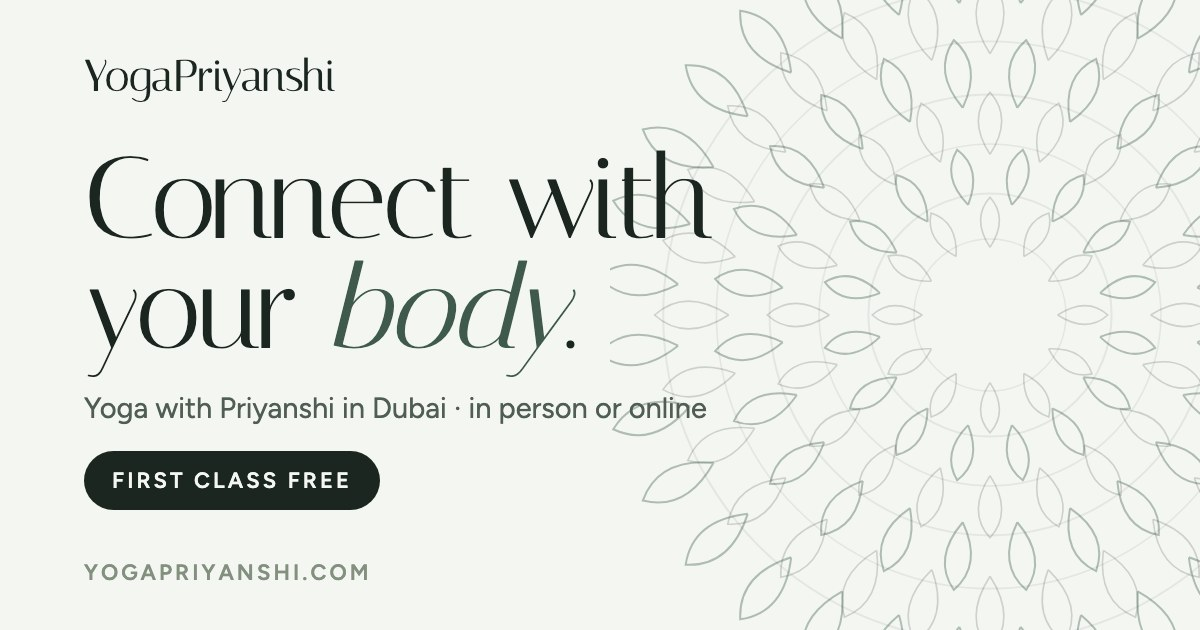
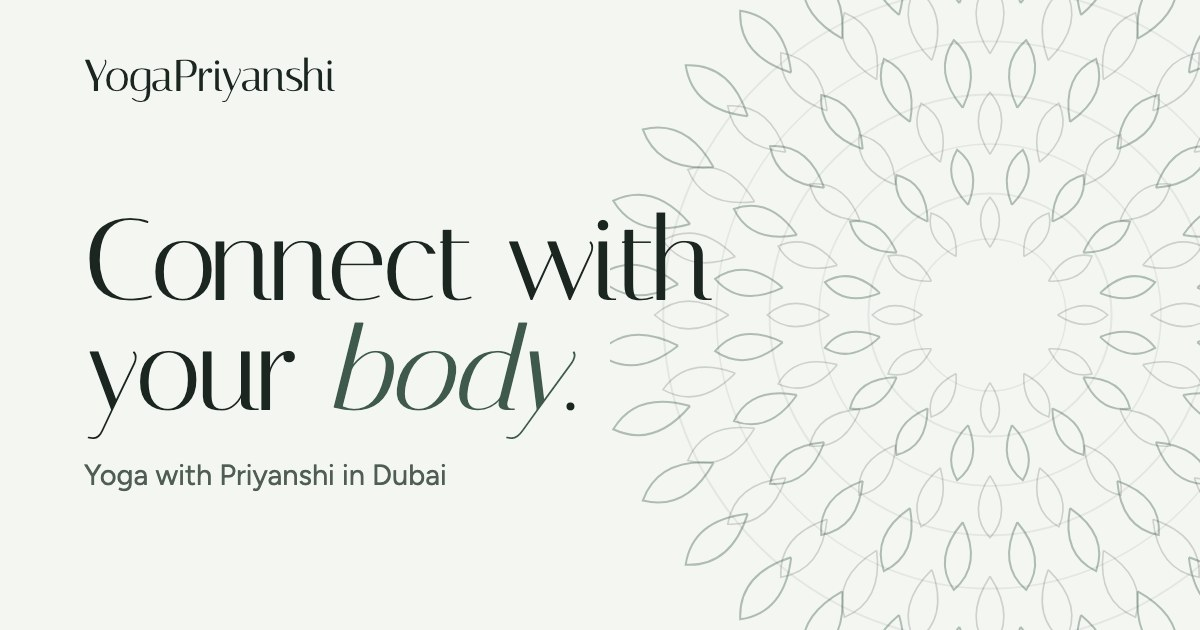
Simplify the link preview card: drop the in-person line, the free-class label and the URL
The image URL is versioned (?v=2) so WhatsApp and iMessage fetch the new card.

Changed region(s): [[0.0617, 0.2413, 0.5858, 0.6635], [0.0617, 0.6937, 0.37, 0.8143], [0.0617, 0.8746, 0.3083, 0.9349]]

diff --git a/index.html b/index.html
@@ -10,16 +10,16 @@
     <meta property="og:type" content="website" />
     <meta property="og:site_name" content="YogaPriyanshi" />
     <meta property="og:url" content="https://www.yogapriyanshi.com/" />
-    <meta property="og:image" content="https://www.yogapriyanshi.com/og-image.jpg" />
-    <meta property="og:image:secure_url" content="https://www.yogapriyanshi.com/og-image.jpg" />
+    <meta property="og:image" content="https://www.yogapriyanshi.com/og-image.jpg?v=2" />
+    <meta property="og:image:secure_url" content="https://www.yogapriyanshi.com/og-image.jpg?v=2" />
     <meta property="og:image:type" content="image/jpeg" />
     <meta property="og:image:width" content="1200" />
     <meta property="og:image:height" content="630" />
-    <meta property="og:image:alt" content="YogaPriyanshi: Connect with your body. Yoga with Priyanshi in Dubai, in person or online. First class free." />
+    <meta property="og:image:alt" content="YogaPriyanshi: Connect with your body. Yoga with Priyanshi in Dubai." />
     <meta name="twitter:card" content="summary_large_image" />
     <meta name="twitter:title" content="YogaPriyanshi · Yoga in Dubai" />
     <meta name="twitter:description" content="Yoga with Priyanshi in Dubai, in person or online. Your first class is free." />
-    <meta name="twitter:image" content="https://www.yogapriyanshi.com/og-image.jpg" />
+    <meta name="twitter:image" content="https://www.yogapriyanshi.com/og-image.jpg?v=2" />
     <meta name="twitter:image:alt" content="YogaPriyanshi: Connect with your body. Yoga with Priyanshi in Dubai." />
     <link rel="canonical" href="https://www.yogapriyanshi.com/" />
     <!-- Self-hosted fonts (@fontsource, imported in src/main.tsx). The three latin files used above the fold

diff --git a/e2e/01-landing.spec.ts b/e2e/01-landing.spec.ts
@@ -115,7 +115,7 @@ test('shared links get a preview card (Open Graph image, title and description)'
   expect(await meta('meta[property="og:description"]')).toBeTruthy();
   expect(await meta('meta[name="twitter:card"]')).toBe('summary_large_image');
   const image = await meta('meta[property="og:image"]');
-  expect(image).toBe('https://www.yogapriyanshi.com/og-image.jpg');
+  expect(image).toBe('https://www.yogapriyanshi.com/og-image.jpg?v=2');
   expect(await meta('meta[property="og:image:width"]')).toBe('1200');
   expect(await meta('meta[property="og:image:height"]')).toBe('630');
   // The file itself ships with the site.
